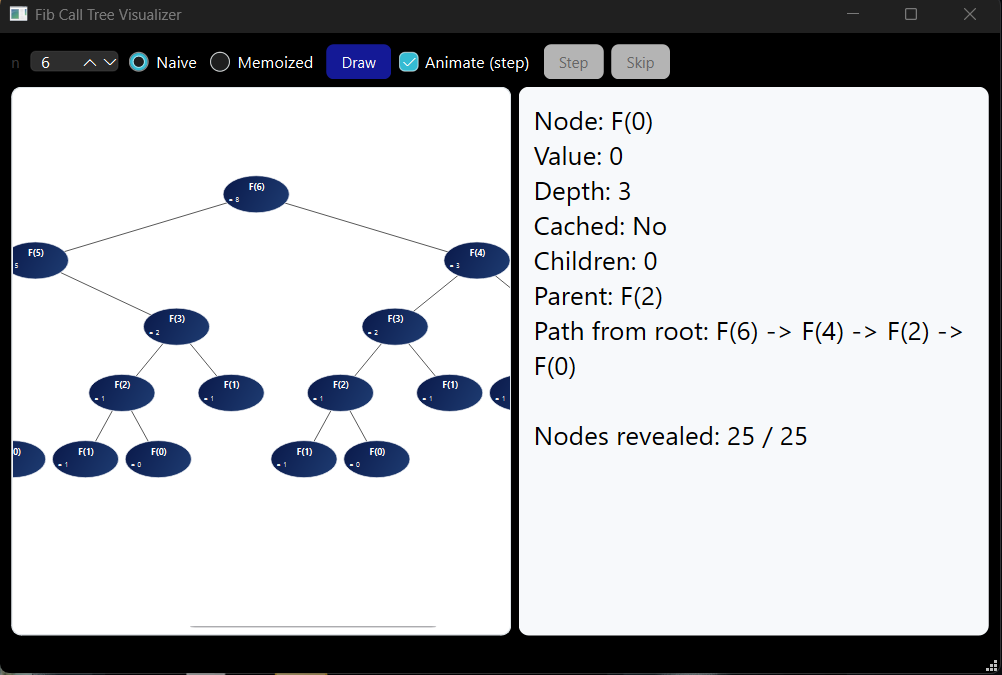
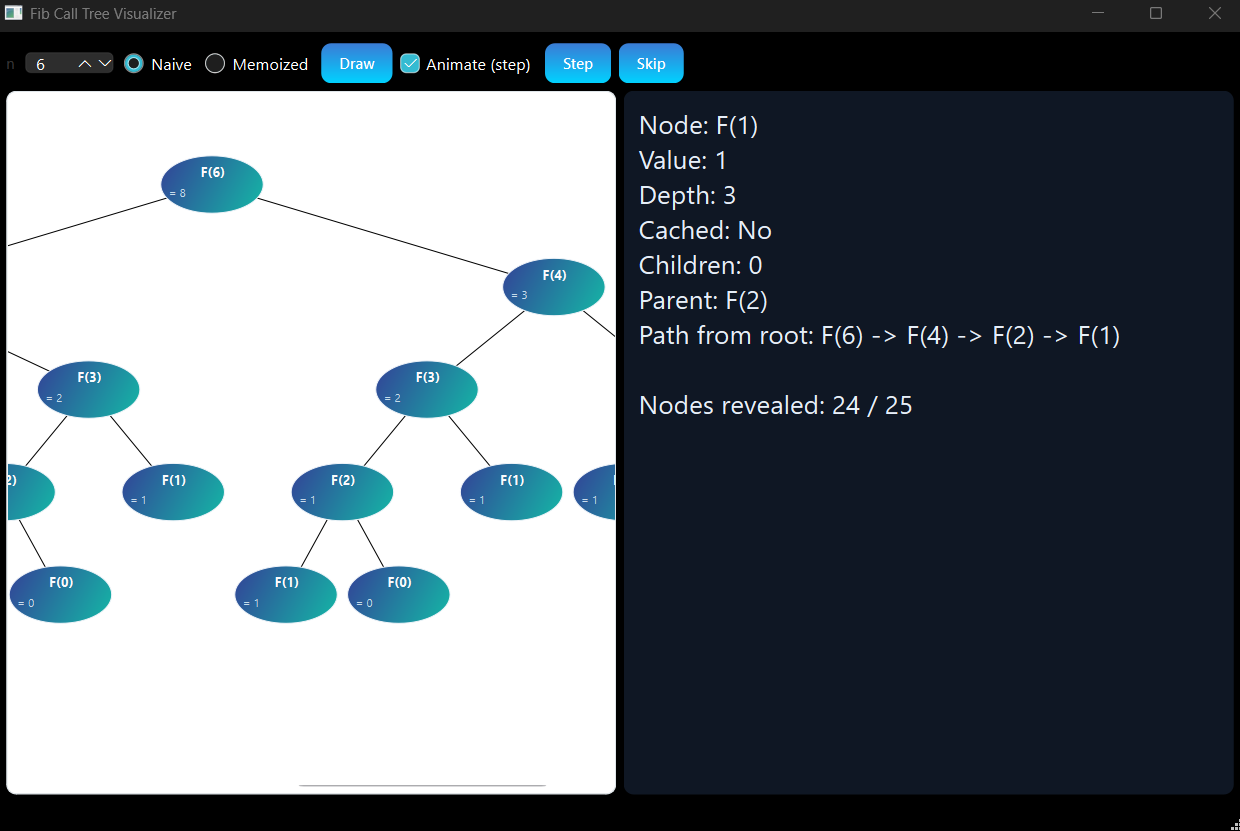
Inhance UI

diff --git a/mainwindow.cpp b/mainwindow.cpp
@@ -18,19 +18,20 @@ NodeItem::NodeItem(FibNode* node, QGraphicsItem* parent)
     : QGraphicsEllipseItem(parent), nodePtr(node) {
     // rounded rect centered at (0,0)
     setRect(-50, -28, 100, 56);
-    setPen(QPen(Qt::white, 1));
+    // modern off-white pen for subtle border
+    setPen(QPen(QColor(240, 244, 249), 1));
     setFlag(ItemIsSelectable);
     setFlag(ItemSendsScenePositionChanges);
 
     // label (main: F(n))
     label = new QGraphicsTextItem(this);
-    label->setDefaultTextColor(Qt::white);
+    label->setDefaultTextColor(QColor(250,250,252));
     label->setFont(QFont("Segoe UI", 10, QFont::Bold));
     label->setPos(-15, -25);
 
     // subLabel (value)
     subLabel = new QGraphicsTextItem(this);
-    subLabel->setDefaultTextColor(QColor(240,240,240));
+    subLabel->setDefaultTextColor(QColor(200, 220, 235));
     subLabel->setFont(QFont("Segoe UI", 8));
     subLabel->setPos(-46, -4);
 
@@ -38,25 +39,28 @@ NodeItem::NodeItem(FibNode* node, QGraphicsItem* parent)
 }
 
 void NodeItem::applyStyle() {
+    // modern purple -> teal gradient for nodes
     QLinearGradient grad(rect().topLeft(), rect().bottomRight());
-    grad.setColorAt(0.0, QColor(10, 25, 74));   // dark navy blue (#0A194A)
-    grad.setColorAt(1.0, QColor(30, 60, 114));  // slightly lighter blue (#1E3C72)
+    grad.setColorAt(0.0, QColor(51, 65, 151));   // deep indigo (#334197)
+    grad.setColorAt(1.0, QColor(20, 184, 166));  // teal-accent (#14B8A6)
     setBrush(QBrush(grad));
 }
 
 void NodeItem::setHighlighted(bool on) {
     if (on) {
+        // warm accent gradient for selection (coral -> amber)
         QLinearGradient grad(rect().topLeft(), rect().bottomRight());
-        grad.setColorAt(0.0, QColor(255, 203, 5));
-        grad.setColorAt(1.0, QColor(255, 241, 118));
+        grad.setColorAt(0.0, QColor(255, 94, 98));
+        grad.setColorAt(1.0, QColor(255, 159, 67));
         setBrush(grad);
     } else {
         if (nodePtr->isCached) {
+            // muted slate gradient for cached nodes
             QLinearGradient grad(rect().topLeft(), rect().bottomRight());
-            grad.setColorAt(0.0, QColor(120, 120, 120));
-            grad.setColorAt(1.0, QColor(180, 180, 180));
+            grad.setColorAt(0.0, QColor(95, 105, 125));
+            grad.setColorAt(1.0, QColor(65, 75, 95));
             setBrush(grad);
-            setPen(QPen(Qt::white, 1));
+            setPen(QPen(QColor(240, 244, 249), 1));
         } else {
             applyStyle();
         }
@@ -90,14 +94,21 @@ MainWindow::MainWindow(QWidget *parent)
     // info area read-only + modern styling
     ui->infoText->setReadOnly(true);
     ui->infoText->setFont(QFont("Segoe UI", 16));
-    ui->infoText->setStyleSheet("QTextEdit{ background: #f7f9fb;color:balack; border-radius:8px; padding:8px; }");
+    ui->infoText->setStyleSheet("QTextEdit{ background: #0f1724; color: #E6EEF8; border-radius:8px; padding:8px; }");
     ui->infoText->setPlainText("Press Draw to build the tree. Use Step to reveal one node (root appears first), Skip to reveal the rest quickly.");
 
     // modernize buttons/colors via stylesheet
     QString btnStyle = R"(
-        QPushButton { background: rgb(20, 25, 150); color: white; border-radius:6px; padding:6px 12px; }
-        QPushButton:disabled { background: rgb(180, 180, 180); color: #666; }
-        QRadioButton, QCheckBox { padding:4px; }
+        QPushButton {
+            background: qlineargradient(x1:0,y1:0,x2:0,y2:1, stop:0 #3A7BD5, stop:1 #00D2FF);
+            color: white;
+            border-radius:8px;
+            padding:8px 14px;
+            font-weight:600;
+        }
+        QPushButton:disabled { background: rgb(110, 115, 125); color: #d6d6d6; }
+        QPushButton:hover { opacity: 0.95; }
+        QRadioButton, QCheckBox { padding:4px; color: #E6EEF8; }
     )";
     ui->btnDraw->setStyleSheet(btnStyle);
     ui->btnStep->setStyleSheet(btnStyle);
